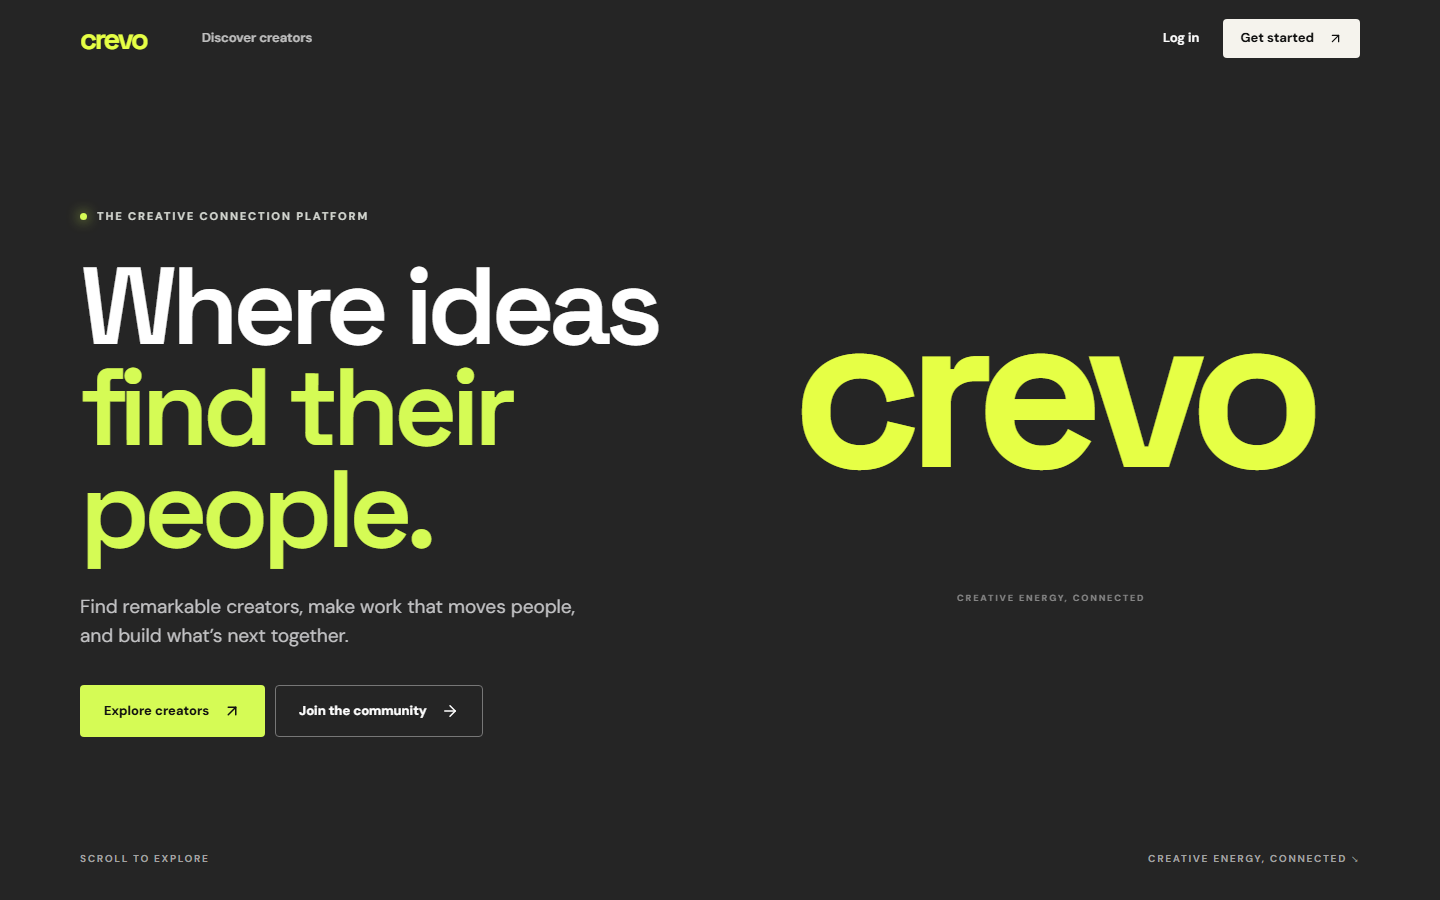
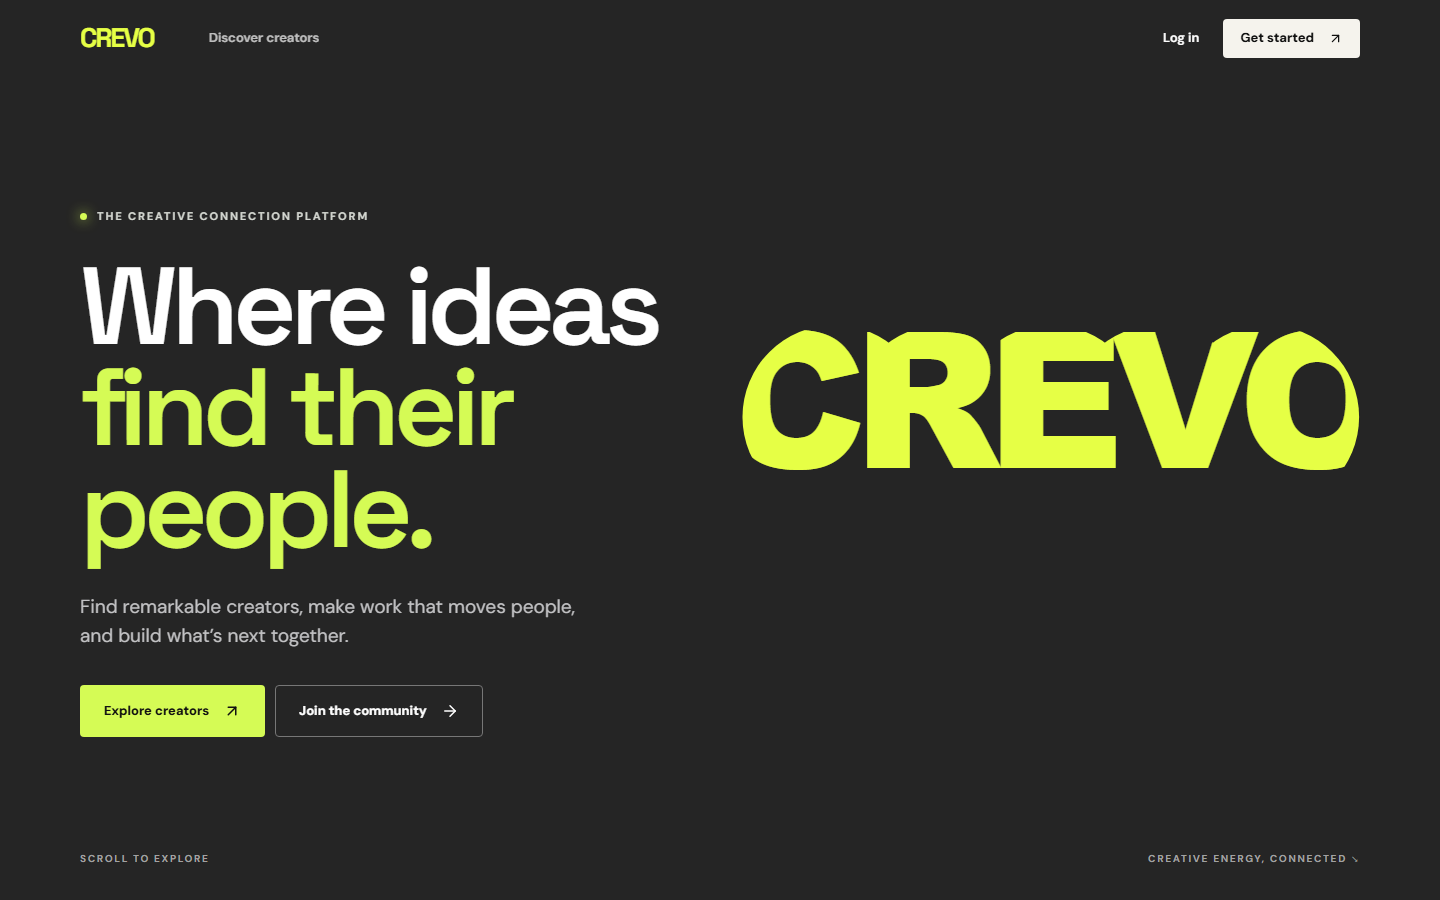
Use five-dot CREVO loader animation

Changed region(s): [[0.5, 0.3422, 0.9688, 0.5289], [0.0625, 0.0311, 0.2188, 0.0622], [0.7188, 0.6533, 0.7812, 0.6844]]

diff --git a/src/BrandSequence.jsx b/src/BrandSequence.jsx
@@ -1,43 +1,27 @@
 import { useId } from 'react'
 import { BrandMark } from './BrandMark.jsx'
 
-const nodes = [
-  [116, 118], [116, 313], [176, 118], [176, 313],
-  [266, 117], [266, 315], [328, 117], [328, 315],
-  [419, 117], [419, 315], [482, 117], [482, 315],
-  [580, 117], [580, 315], [644, 117], [644, 315],
-  [738, 117], [738, 315], [799, 117], [799, 315],
-]
-const revealPoints = [210, 377, 544, 711]
+const positions = [178, 319, 460, 601, 742]
 
 export default function BrandSequence({ className = '' }) {
-  const maskId = `crevo-reveal-${useId().replace(/:/g, '')}`
+  const maskId = `crevo-loader-${useId().replace(/:/g, '')}`
   return <div className={`brand-sequence ${className}`} aria-hidden="true">
-    <svg className="sequence-svg" viewBox="0 0 920 430" preserveAspectRatio="xMidYMid meet" focusable="false">
+    <svg className="loader-svg" viewBox="0 0 920 430" preserveAspectRatio="xMidYMid meet" focusable="false">
       <defs>
         <mask id={maskId} maskUnits="userSpaceOnUse" x="0" y="0" width="920" height="430">
           <rect width="920" height="430" fill="black" />
-          {revealPoints.map((x, index) => <circle className="sequence-reveal" key={index} cx={x} cy="215" r="0" fill="white" />)}
+          {positions.map((cx, index) => <circle className="loader-reveal" key={cx} cx={cx} cy="215" r="0" fill="white" style={{ animationDelay: `${3.05 + index * .16}s` }} />)}
         </mask>
       </defs>
-      <g className="sequence-guides">
-        <path d="M0 117H920M0 215H920M0 315H920" />
-        <path d="M116 84V345M266 84V345M419 84V345M580 84V345M738 84V345" />
-      </g>
-      <g className="sequence-wire">
-        <text x="460" y="280" textAnchor="middle">crevo</text>
-        <path className="sequence-baseline" d="M67 315H852" />
-        {nodes.map(([x, y], index) => <circle key={index} cx={x} cy={y} r="4" />)}
-      </g>
-      <text className="sequence-solid" x="460" y="280" textAnchor="middle" mask={`url(#${maskId})`}>crevo</text>
-      <g className="sequence-dots">
-        <circle cx="443" cy="197" r="14" />
-        <circle cx="477" cy="197" r="14" />
-        <circle cx="443" cy="231" r="14" />
-        <circle cx="477" cy="231" r="14" />
+      <text className="loader-word" x="460" y="282" textAnchor="middle" mask={`url(#${maskId})`}>CREVO</text>
+      <g className="loader-dots">
+        {positions.map((cx, index) => <circle className="loader-dot" key={cx} cx={cx} cy="215" r="17" style={{
+          '--slope': `${(index - 2) * 14}px`,
+          '--opposite': `${(2 - index) * 14}px`,
+          animationDelay: `${index * .13}s, ${3.05 + index * .16}s`,
+        }} />)}
       </g>
     </svg>
     <BrandMark className="sequence-mobile-mark" />
-    <span className="sequence-caption">CREATIVE ENERGY, CONNECTED</span>
   </div>
 }

diff --git a/src/brand.css b/src/brand.css
@@ -204,3 +204,31 @@
  .sequence-solid{opacity:1}.sequence-reveal{r:165}
 }
 .sequence-reveal{animation-timing-function:cubic-bezier(.65,0,.35,1)}
+
+/* Five-dot loader: arrive, wave, align, then become CREVO. */
+.logo-word{font-size:.93em;font-weight:700;letter-spacing:-.075em}
+.brand-mark-point:nth-child(5){animation-delay:.6s}
+.loader-svg{display:block;width:100%;height:100%;overflow:visible}
+.loader-word{fill:#e6ff45;font-family:'Arial Black','Space Grotesk',sans-serif;font-size:248px;font-weight:900;letter-spacing:-18px}
+.loader-dot{fill:#e6ff45;opacity:0;transform-box:fill-box;transform-origin:center;animation:loader-wave 2.55s cubic-bezier(.42,0,.24,1) forwards,loader-dot-morph .7s cubic-bezier(.32,0,.22,1) forwards}
+.loader-reveal{animation:loader-letter-reveal .7s cubic-bezier(.42,0,.22,1) forwards}
+@keyframes loader-wave{
+  0%{opacity:0;transform:translateY(-18px) scale(.4)}
+  11%{opacity:1;transform:translateY(0) scale(1)}
+  27%{opacity:1;transform:translateY(var(--slope)) scale(1.06)}
+  45%{transform:translateY(var(--opposite)) scale(.95)}
+  63%{transform:translateY(var(--slope)) scale(1.05)}
+  81%{transform:translateY(var(--opposite)) scale(.97)}
+  100%{opacity:1;transform:translateY(0) scale(1)}
+}
+@keyframes loader-dot-morph{
+  0%{opacity:1;transform:scale(1);filter:drop-shadow(0 0 0 #e6ff45)}
+  42%{opacity:1;transform:scale(1.18);filter:drop-shadow(0 0 13px #e6ff45)}
+  100%{opacity:0;transform:scale(1.65);filter:drop-shadow(0 0 0 #e6ff45)}
+}
+@keyframes loader-letter-reveal{0%{r:0}100%{r:120}}
+@media(max-width:720px){.auth-sequence .loader-svg{display:none}.auth-sequence .sequence-mobile-mark{display:block}}
+@media(prefers-reduced-motion:reduce){
+ .loader-dot,.loader-reveal{animation:none!important}
+ .loader-dot{opacity:0}.loader-reveal{r:120}
+}

diff --git a/src/BrandMark.jsx b/src/BrandMark.jsx
@@ -1,14 +1,11 @@
 import { Link } from 'react-router-dom'
 
 export function BrandMark({ className = '' }) {
-  return <svg className={`brand-mark ${className}`} viewBox="0 0 80 80" aria-hidden="true" focusable="false">
-    <circle className="brand-mark-point" cx="28" cy="28" r="11" />
-    <circle className="brand-mark-point" cx="52" cy="28" r="11" />
-    <circle className="brand-mark-point" cx="28" cy="52" r="11" />
-    <circle className="brand-mark-point" cx="52" cy="52" r="11" />
+  return <svg className={`brand-mark ${className}`} viewBox="0 0 100 100" aria-hidden="true" focusable="false">
+    {[15, 32.5, 50, 67.5, 85].map((cx, index) => <circle className="brand-mark-point" key={index} cx={cx} cy="50" r="8" />)}
   </svg>
 }
 
 export function BrandLogo({ className = '' }) {
-  return <Link to="/" className={`logo ${className}`} aria-label="Crevo home"><span className="logo-word">crevo</span></Link>
+  return <Link to="/" className={`logo ${className}`} aria-label="Crevo home"><span className="logo-word">CREVO</span></Link>
 }

diff --git a/README.md b/README.md
@@ -2,7 +2,7 @@
 
 **Live app:** https://crevo-hackathon.onrender.com
 
-A React and FastAPI MVP for AI creator discovery and brand collaboration. The landing page uses a four-dot to Crevo wordmark animation with construction lines. The app includes creator profiles, AI work portfolios with tools and workflows, structured briefs, applications, explainable matching, and project messages. Brands can close briefs, decline or accept applications, and mark projects complete.
+A React and FastAPI MVP for AI creator discovery and brand collaboration. The landing page uses a five-dot wave that transforms into the CREVO wordmark. The app includes creator profiles, AI work portfolios with tools and workflows, structured briefs, applications, explainable matching, and project messages. Brands can close briefs, decline or accept applications, and mark projects complete.
 
 ![Crevo landing page](docs/preview.png)
 
